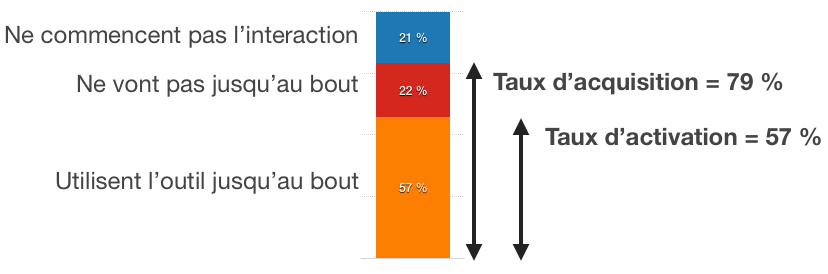
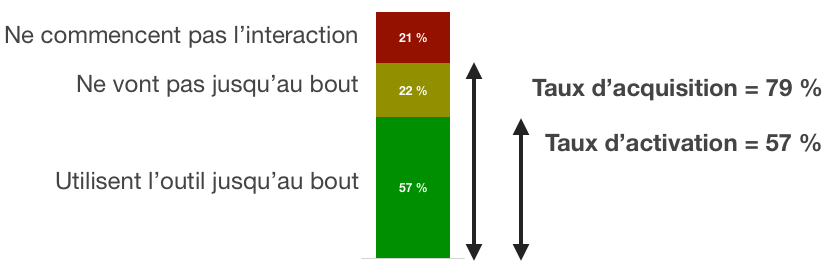
Increase readability of pirate metrics article

Changed region(s): [[0.4529, 0.0292, 0.5435, 0.9635], [0.5737, 0.2628, 0.9964, 0.3796], [0.6341, 0.4672, 0.9964, 0.5547]]

diff --git a/_posts/2016-10-17-mes-aides-metriques-pirates-tunnel-conversion-public.md b/_posts/2016-10-17-mes-aides-metriques-pirates-tunnel-conversion-public.md
@@ -3,36 +3,38 @@ title: Métriques pirates et tunnels de conversion au service de l'intérêt gé
 startup: mes-aides
 ---
 
-Mes Aides est le plus ancien produit grand public de l'Incubateur, en production depuis le mois d'octobre 2014. Nous avons donc pu accumuler suffisamment de données statistiques sur l'usage de ce simulateur pour mener des analyses approfondies. Voici quelques-unes des métriques que nous suivons, et quelques conseils pour reproduire cette approche dans vos propres produits.
+Les métriques pirates et la notion de tunnel de conversion sont des pratiques habituelles de e-commerce. Au sein des Startups d'État, nous pensons que les pratiques du numérique peuvent être appliquées dans l'action publique, au bénéfice de toutes et tous. Je vais vous montrer comment l'équipe Mes Aides utilise ces concepts pour maximiser son impact.
 
 
 ## Source des données
 
-Nous utilisons [Piwik](https://piwik.org), un outil libre de suivi d'audience du même type que Google Analytics. Ces outils permettent de déterminer entre autres le nombre de visites et les contenus les plus populaires. Les données fournies peuvent aider à déterminer la clarté des messages envoyés aux utilisateurs, à travers notamment des [métriques pirates](http://www.expectedbehavior.com/experiments/pirate_metrics/).
+Nous utilisons [Piwik](https://piwik.org), un outil libre de suivi d'audience (comme Google Analytics, mais [sans horrible bannière]({{ site.baseurl }}suivi)). Ces outils permettent de suivre les visites et la popularité du contenu. Au travers des [métriques pirates](http://www.expectedbehavior.com/experiments/pirate_metrics/), ces données permettent d'estimer la clarté des messages envoyés aux utilisateurs et les zones d'amélioration.
 
-[Suivons l'audience](https://stats.data.gouv.fr/index.php?module=CoreHome&action=index&idSite=9&period=day&date=yesterday#?module=Actions&action=menuGetPageUrls&idSite=9&period=day&date=yesterday&popover=RowAction$3ARowEvolution$3AActions.getPageUrls$3A$257B$2522action$2522$253A$2522getMultiRowEvolutionPopover$2522$252C$2522column$2522$253A$2522nb_visits$2522$257D$3Afoyer$20$3E$20$40$252Fdemandeur$2C$40$252Findex$2Cfoyer$20$3E$20$40$252Fresultat) de trois pages spécifiques : la page d'accueil, la page de début de simulation, et la page de résultats, et voyons comment interpréter ces données.
+[Suivons l'audience](https://stats.data.gouv.fr/index.php?module=CoreHome&action=index&idSite=9&period=day&date=yesterday#?module=Actions&action=menuGetPageUrls&idSite=9&period=day&date=yesterday&popover=RowAction$3ARowEvolution$3AActions.getPageUrls$3A$257B$2522action$2522$253A$2522getMultiRowEvolutionPopover$2522$252C$2522column$2522$253A$2522nb_visits$2522$257D$3Afoyer$20$3E$20$40$252Fdemandeur$2C$40$252Findex$2Cfoyer$20$3E$20$40$252Fresultat) des pages accueil, début de simulation et résultats, et voyons comment interpréter ces données.
 
-![Fréquentation des pages d'accueil, simulation et résultats de Mes Aides.]({{ site.baseurl }}img/posts/2016-10-17-mes-aides-metriques-pirates-tunnel-conversion-public/audience-pages.png)
+![1300 visites de l'accueil, 1000 de la simulation et 700 du résultat.]({{ site.baseurl }}img/posts/2016-10-17-mes-aides-metriques-pirates-tunnel-conversion-public/audience-pages.png)
 
-En prenant un jour particulier dans le suivi d'audience ci-dessus, voilà comment lire graphiquement deux valeurs chargées de sens.
-
-![Acquisition = ratio arrivée/démarrage, activation = ratio arrivée/fin]({{ site.baseurl }}img/posts/2016-10-17-mes-aides-metriques-pirates-tunnel-conversion-public/acquisition-activation.png)
+Pour chaque point dans ce suivi d'audience, on peut lire deux valeurs chargées de sens.
 
 
 ## Taux d'acquisition
 
-Le [taux d'acquisition](http://www.expectedbehavior.com/experiments/pirate_metrics/) permet d'évaluer si votre message engage bien les visiteurs, et si le flux entrant est bien qualifié. Plus il est élevé et mieux le message est calibré à son public.
+Le _taux d'acquisition_ est le rapport entre nombre d'arrivées sur le service et démarrage d'une interaction. Il permet d'évaluer si votre message engage bien les visiteurs, et si le flux entrant est bien qualifié. Plus il est élevé et mieux le message est calibré au public qui visite votre site.
 
-Pour Mes Aides, il s'agit du ratio de simulations débutées par rapport au nombre d'arrivées sur la page d'accueil.
+Pour Mes Aides, nous le définissions comme le ratio de simulations débutées par rapport aux arrivées sur la page d'accueil. Ce taux vaut environ 79 % sur les 2 derniers mois.
+
+![Acquisition = ratio arrivée/démarrage]({{ site.baseurl }}img/posts/2016-10-17-mes-aides-metriques-pirates-tunnel-conversion-public/acquisition.png)
 
 > Attention, cette métrique ne permet pas de déterminer si votre proposition de valeur est claire. Une proposition de valeur claire peut justement éviter à des personnes qui ne se sentent pas concernées de commencer une interaction qui ne leur apportera pas de valeur. Ce taux ne doit pas être simplement maximisé : si on dit « cliquez ici pour gagner 1 000 € », on aura peut-être un fort taux d'acquisition, mais beaucoup de déception. Ou sinon, envoyez-nous l'adresse de votre produit  ;)
 
 
 ## Taux d'activation
 
-Le [taux d'activation](http://www.expectedbehavior.com/experiments/pirate_metrics/) permet d'estimer la qualité de l'interaction avec le système, et l'adéquation de l'interaction proposée avec la proposition de valeur initiale.
+Le _taux d'activation_ est le rapport entre nombre d'arrivées sur le service et une utilisation « réussie ». Il permet d'estimer la qualité de l'interaction avec le système, et l'adéquation de l'interaction proposée avec la proposition de valeur initiale.
 
-Pour Mes Aides, il s'agit du ratio de simulations terminées par rapport aux simulations démarrées.
+Pour Mes Aides, nous le définissions comme le ratio de simulations terminées par rapport aux arrivées sur la page d'accueil. Ce taux vaut environ 57 % sur les 2 derniers mois.
+
+![Acquisition = ratio arrivée/démarrage, activation = ratio arrivée/demarrage]({{ site.baseurl }}img/posts/2016-10-17-mes-aides-metriques-pirates-tunnel-conversion-public/acquisition-activation.png)
 
 > Attention, cette métrique ne permet pas d'identifier précisément les défauts. Il s'agit simplement d'un _smell_, pas d'un outil de diagnostic. Pour comprendre les difficultés, il faut déterminer les pages qui sont les plus source d'abandon, puis mener des tests utilisateurs pour en identifier les causes et proposer des correctifs.
 
@@ -41,44 +43,50 @@ Un taux d'activation de 57 % est excellent pour un produit web. En fluidifiant 
 
 ## Tunnel de conversion
 
-La conjonction de deux métriques est pertinente pour évaluer la difficulté que les usagers rencontrent face à une interaction spécifique : le temps passé et le taux de sortie. Plus un usager passe de temps sur une étape plus elle est complexe, et cela devrait se retrouver sur le pourcentage d'usagers qui abandonnent l'interaction en cours de route.
+Deux métriques sont pertinentes pour évaluer la difficulté que les usagers rencontrent face à une interaction spécifique : le _temps passé_ et le _taux de sortie_, c'est-à-dire le pourcentage d'usagers qui abandonnent l'interaction en cours de route.
 
-Si nous générons un [rapport](https://stats.data.gouv.fr/index.php?module=CoreHome&action=index&idSite=9&period=day&date=yesterday#?module=Actions&action=menuGetPageUrls&idSite=9&period=day&date=yesterday) sur ces métriques et nous focalisons uniquement sur les pages du parcours de simulation (par opposition aux pages de contenu telles qu'à propos, FAQ…), nous pouvons analyser les marges d'amélioration de notre [tunnel de conversion](https://en.wikipedia.org/wiki/Conversion_funnel).
+Si nous générons un [rapport](https://stats.data.gouv.fr/index.php?module=CoreHome&action=index&idSite=9&period=day&date=yesterday#?module=Actions&action=menuGetPageUrls&idSite=9&period=day&date=yesterday) sur les pages du parcours de simulation (par opposition aux pages de contenu telles que « À propos », « FAQ »…), nous pouvons analyser les marges d'amélioration de notre [tunnel de conversion](https://en.wikipedia.org/wiki/Conversion_funnel).
 
 > Bien que Mes Aides soit une application « en une seule page » (<abbr title="Single page application">SPA</abbr>), nous [modifions l'adresse du navigateur](https://developer.mozilla.org/fr/docs/Web/Guide/DOM/Manipuler_historique_du_navigateur) à chaque étape d'une simuation. L'outil de suivi d'audience s'adapte tout aussi bien à ce fonctionnement.
 
-La représentation de ces données est comme toujours cruciale pour que son interprétation soit facilitée.
+La représentation de ces données est comme toujours cruciale pour faciliter son interprétation.
 
-Ici, je propose une visualisation sous la forme de bulles qui permet de représenter trois dimensions à la fois, avec une clé de lecture simple : plus une page est en haut, plus elle fait fuir les utilisateurs ; plus elle est à droite, plus elle est longue à remplir ; plus sa bulle est grande, plus elle est fréquemment rencontrée.
+### Répartition du temps passé
+
+Une première représentation simple peut se contenter du temps passé à chaque étape.
+
+![La saisie des montants prend 1 minute 27 secondes. La saisie des revenus N moins 2 prend 40 secondes. Le temps total moyen est de 6 minutes 55 secondes]({{ site.baseurl }}img/posts/2016-10-17-mes-aides-metriques-pirates-tunnel-conversion-public/repartition-temps-par-page.png)
+
+Cela nous permet de voir que la saisie des ressources est l'interaction la plus longue. Mais comment prioriser nos efforts d'amélioration entre cette page et la saisie du revenu fiscal de référence, par exemple ?
+
+### Analyse multidimensionnelle
+
+Ici, je propose une visualisation sous qui permet de représenter trois dimensions à la fois, avec une clé de lecture simple : plus une page est en haut, plus elle fait fuir les utilisateurs ; plus elle est à droite, plus elle est longue à remplir ; plus sa bulle est grande, plus elle est fréquemment rencontrée. Les couleurs servent à distinguer les bulles et les regroupent par type d'information saisie.
 
 ![La saisie des montants prend 1 minute 27 secondes et a un taux de sortie de 12%. La saisie des revenus N moins 2 prend 40 secondes et a un taux de sortie de 12%.]({{ site.baseurl }}img/posts/2016-10-17-mes-aides-metriques-pirates-tunnel-conversion-public/tunnel-conversion.png)
 
 > Les déclarations de ressources des individus après le second n'ont pas été inclues par souci de lisibilité et de représentativité, car très peu de situations en comprennent.
 
-Dans l'état actuel, pas de surprise : les pages qui font le plus fuir les usagers sont celles où ils doivent remplir des montants précis qu'ils n'ont peut-être pas en tête, la pire étant la première rencontre avec la saisie des montants des ressources perçues sur l'année passée.
+Dans l'état actuel, pas de surprise : les pages qui font le plus fuir les usagers sont celles où ils doivent remplir des montants précis qu'ils n'ont peut-être pas en tête, la pire étant la première rencontre avec la saisie des montants des ressources perçues sur l'année passée. Nous nous en doutions, bien évidemment, mais nous avons maintenant une référence à laquelle rapporter l'efficacité d'interfaces alternatives.
+
+Le compte du nombre de vues est également utile dans cette priorisation. Il sera ainsi plus efficient d'améliorer la première page de simulation (« Demandeur ») que la page Patrimoine, même si ses taux de sortie et temps passé sont plus faibles : avec 16 fois plus de visites, l'impact sera bien plus fort.
 
 **Une analyse quantitative de ce type ne permet pas de suggérer des solutions**, mais elle peut aider l'équipe à valider (ou invalider) ses intuitions, et à focaliser ses efforts là où ils auront le plus d'impact. Maximiser le taux d'activation revient à ramener les bulles les plus grandes vers le quadrant inférieur gauche.
-
-Dans notre cas, les marges de progression sont les plus grandes sur la page d'entrée des montants de ressources. Nous nous en doutions, bien évidemment, mais nous avons maintenant une performance de référence par rapport à laquelle mesurer l'efficacité des interfaces alternatives que nous pourrons concevoir.
-
-Le compte du nombre de vues est également utile dans cette priorisation. Il serait ainsi plus pertinent de se focaliser sur l'amélioration de la première page de simulation (« Demandeur ») que sur la page Patrimoine, même si ses taux de sortie et temps passé sont plus faibles : avec 16 fois plus de passage, l'impact sera bien plus fort.
 
 
 ## Temps passé total
 
-Si vous êtes familier·e avec les métriques pirates, vous avez certainement remarqué que je n'ai pas parlé de _rétention_, par exemple. C'est là la limite de ces modèles : contrairement à un site commercial qui serait rémunéré par l'affichage de publicités, nous ne valorisons pas le temps passé par nos usagers sur nos produits. Au contraire, plus l'interaction est rapide et indolore, mieux c'est !
-
-Nous aussi, nous suivons le [temps total](https://stats.data.gouv.fr/index.php?module=CoreHome&action=index&idSite=9&period=day&date=yesterday&segment=visitConvertedGoalId%3D%3D1%3Bactions%3E%3D5%3Bactions%3C%3D25#?module=VisitFrequency&action=index&idSite=9&period=day&date=yesterday&segment=visitConvertedGoalId%3D%3D1%3Bactions%3E%3D5%3Bactions%3C%3D25) passé sur Mes Aides… mais en espérant le minimiser !
-
-Pour cela, il faut définir le segment (le sous-ensemble) des visiteurs qui ne font qu'une seule simulation. Nous approximons cette définition en ne considérant que les visiteurs qui ont vu la page de début de simulation et la page de résultats, et qui ont visité au moins 5 pages et au plus 25 (pour ne pas prendre en compte la durée des simulations effectuées en faisant varier les paramètres d'une situation initiale).
+Si vous êtes familier·e avec les métriques pirates, vous avez certainement remarqué que je n'ai pas parlé de _rétention_, par exemple. C'est là la limite de l'application de ces modèles à l'action publique : contrairement à un site commercial qui serait rémunéré par l'affichage de publicités, nous ne valorisons pas le temps passé par nos usagers sur nos produits. Au contraire, plus l'interaction est rapide et indolore, mieux c'est ! Donc, si nous suivons la [durée d'une simulation](https://stats.data.gouv.fr/index.php?module=CoreHome&action=index&idSite=9&period=day&date=yesterday&segment=visitConvertedGoalId%3D%3D1%3Bactions%3E%3D5%3Bactions%3C%3D25#?module=VisitFrequency&action=index&idSite=9&period=day&date=yesterday&segment=visitConvertedGoalId%3D%3D1%3Bactions%3E%3D5%3Bactions%3C%3D25) passé sur Mes Aides, c'est en espérant le minimiser !
 
 ![31% des visites prennent 4 à 7 minutes, 58% moins de 7 minutes]({{ site.baseurl }}img/posts/2016-10-17-mes-aides-metriques-pirates-tunnel-conversion-public/repartition-temps-total.png)
 
-Pour caractériser correctement cette durée, nous suivons la médiane et le 95ème percentile des simulations terminées. Cela signifie donc qu'aujourd'hui (et de manière stable depuis plusieurs mois), **la moitié des usagers évaluent leurs droits à plus d'une vingtaine de prestations sociales en moins de 7 minutes**, et 95%, ce qui recouvre l'immense majorité des situations, même complexes, en moins de 30 minutes.
+> Ces données concernent le _segment_ (le sous-ensemble) des visiteurs qui ne font qu'une seule simulation, défini comme les visiteurs qui ont vu les pages de démarrage et de résultats et qui ont visité entre 5 et 25 pages (pour ne pas prendre en compte la durée des simulations effectuées en faisant varier une situation initiale).
+
+Pour caractériser correctement cette durée, nous suivons la médiane et le 95<sup>ème</sup> percentile des simulations terminées. Cela signifie donc qu'aujourd'hui, comme depuis plusieurs mois, **la moitié des usagers évaluent leurs droits à plus d'une vingtaine de prestations sociales en moins de 7 minutes**, et 95 %, ce qui recouvre l'immense majorité des situations, même complexes, en moins de 30 minutes.
 
 
 ## De la transférabilité des pratiques
 
-Les métriques pirates et la notion de tunnel de conversion sont des pratiques habituelles de e-commerce. J'espère avoir pu vous montrer comment ces concepts peuvent être tout aussi utiles dans des services non commerciaux. Au sein des Startups d'État, nous pensons que les pratiques du numérique peuvent tout aussi bien être appliquées dans l'action publique, au bénéfice de tous: usagers, contribuables, agents publics. Cela vous parle ? [Rejoignez-nous !]({{ site.baseurl }}contact).
+Les métriques pirates et la notion de tunnel de conversion sont des pratiques habituelles de e-commerce. J'espère avoir pu vous montrer comment ces concepts peuvent être tout aussi utiles dans des services non commerciaux. Au sein des Startups d'État, nous pensons que les pratiques du numérique peuvent tout aussi bien être appliquées dans l'action publique, au bénéfice de tous: usagers, contribuables, agents publics. **Cela vous parle ? [Rejoignez-nous]({{ site.baseurl }}contact) !**
 
 Cet article est le premier d'une série sur l'application des pratiques des startups du numérique au sein de l'action publique. La semaine prochaine, nous parlerons de [_10x product launch_]({{ site.baseurl }}2016/10/17/mes-aides-10x-product-launch-public), puis de [_datascience_]({{ site.baseurl }}2016/10/17/mes-aides-datascience-public).
